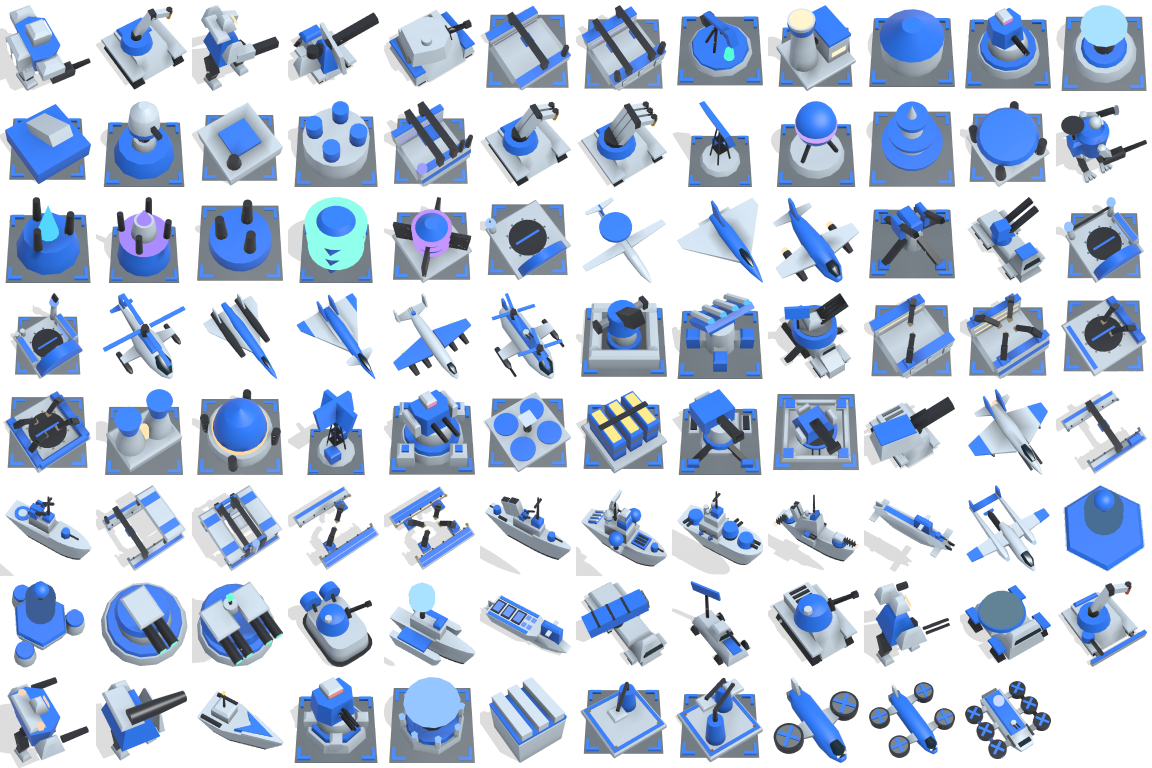
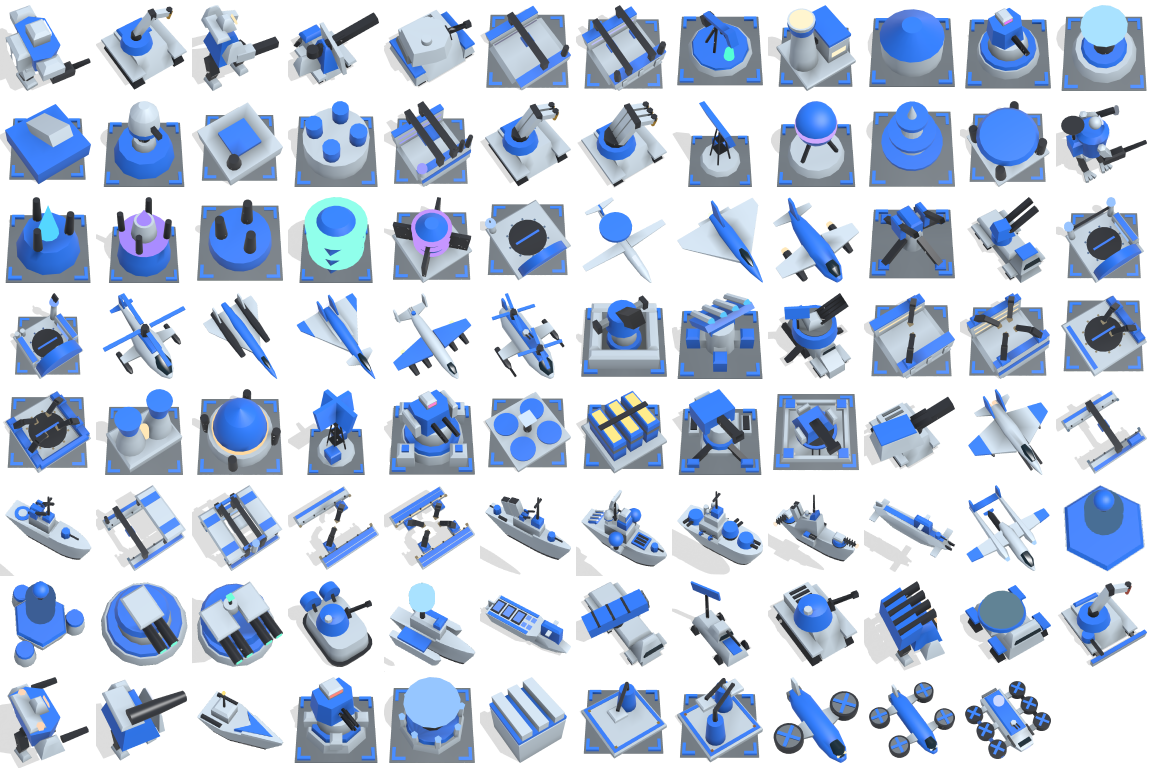
Build the grenadier walker around its grenade tubes
The light walker and the grenadier walker were the same body, head, and legs,
told apart by what was on one arm. The grenadier is now a broad, low body
under a rack of four grenade tubes on its back, raised over its shoulders,
with a stub arm either side and a visor low on its front: four barrels side
by side from above, where the light walker is a small body with a head and
one gun arm. The pair drops out of the ten most alike in the game.

Changed region(s): [[0.75, 0.75, 0.8438, 0.875]]

diff --git a/src/render/meshes.rs b/src/render/meshes.rs
@@ -1941,26 +1941,32 @@ fn build_shape(shape: Shape, mesh: &mut MeshBuilder) {
                 );
             });
         }
+        // A broad, low body under a rack of four grenade tubes on its back, raised over its
+        // shoulders: from above, four barrels side by side, where the light walker is a small
+        // body with a head and one gun arm.
         Shape::GrenadierWalker => {
-            mesh.bevel([-0.22, -0.18, -0.02], [0.22, 0.18, 0.34], 0.05);
-            mesh.paint(Material::Hull);
-            mesh.bevel([0.22, -0.12, 0.08], [0.38, 0.2, 0.3], 0.04);
+            mesh.bevel([-0.3, -0.16, -0.02], [0.3, 0.2, 0.24], 0.06);
+            // The rack's housing, in the team's colors, behind and over the body.
+            mesh.cuboid(
+                [Vec3::new(-0.3, -0.34, 0.1), Vec3::new(0.3, -0.34, 0.1), Vec3::new(0.3, -0.1, 0.2), Vec3::new(-0.3, -0.1, 0.2)],
+                [Vec3::new(-0.3, -0.3, 0.3), Vec3::new(0.3, -0.3, 0.3), Vec3::new(0.3, -0.06, 0.4), Vec3::new(-0.3, -0.06, 0.4)],
+            );
             mesh.paint(Material::Metal);
-            mesh.moving(motion::RECOIL, [0.3, 0.2, 0.19], |mesh| {
-                for (dx, dz) in [(-0.035_f32, 0.0_f32), (0.035, 0.0), (0.0, 0.05)] {
-                    mesh.body(0.3 + dx, &[[0.2, 0.02, 0.02, 0.17 + dz], [0.49, 0.018, 0.018, 0.17 + dz]], 5);
+            mesh.moving(motion::RECOIL, [0.0, -0.1, 0.3], |mesh| {
+                for x in [-0.21_f32, -0.07, 0.07, 0.21] {
+                    mesh.body(x, &[[-0.3, 0.055, 0.055, 0.27], [0.12, 0.055, 0.055, 0.43]], 6);
                 }
             });
-            mesh.flash([0.3, 0.48, 0.19], 0.06);
+            for x in [-0.21_f32, 0.21] {
+                mesh.flash([x, 0.14, 0.44], 0.055);
+            }
+            // A stub arm either side, to steady it, and a visor low on its front.
             mesh.paint(Material::Hull);
-            mesh.bevel([-0.38, -0.12, 0.22], [-0.2, 0.14, 0.38], 0.03);
-            mesh.paint(Material::Metal);
-            mesh.body(-0.29, &[[0.14, 0.045, 0.045, 0.3], [0.26, 0.045, 0.045, 0.3]], 6);
-            mesh.paint(Material::Hull);
-            mesh.beam([-0.3, 0.0, 0.18], [-0.3, 0.2, 0.08], 0.05, 0.05);
-            mesh.bevel([-0.1, -0.06, 0.34], [0.1, 0.12, 0.46], 0.03);
+            for x in [-0.4_f32, 0.4] {
+                mesh.bevel([x - 0.08, -0.1, 0.0], [x + 0.08, 0.14, 0.2], 0.04);
+            }
             mesh.paint(Material::Glow);
-            mesh.block([-0.08, 0.12, 0.38], [0.08, 0.135, 0.42]);
+            mesh.block([-0.12, 0.2, 0.1], [0.12, 0.215, 0.16]);
         }
         // A big glowing dome on a low mount, ringed in the team's colors, over most of a carrier.
         Shape::ShieldEmitter => {
